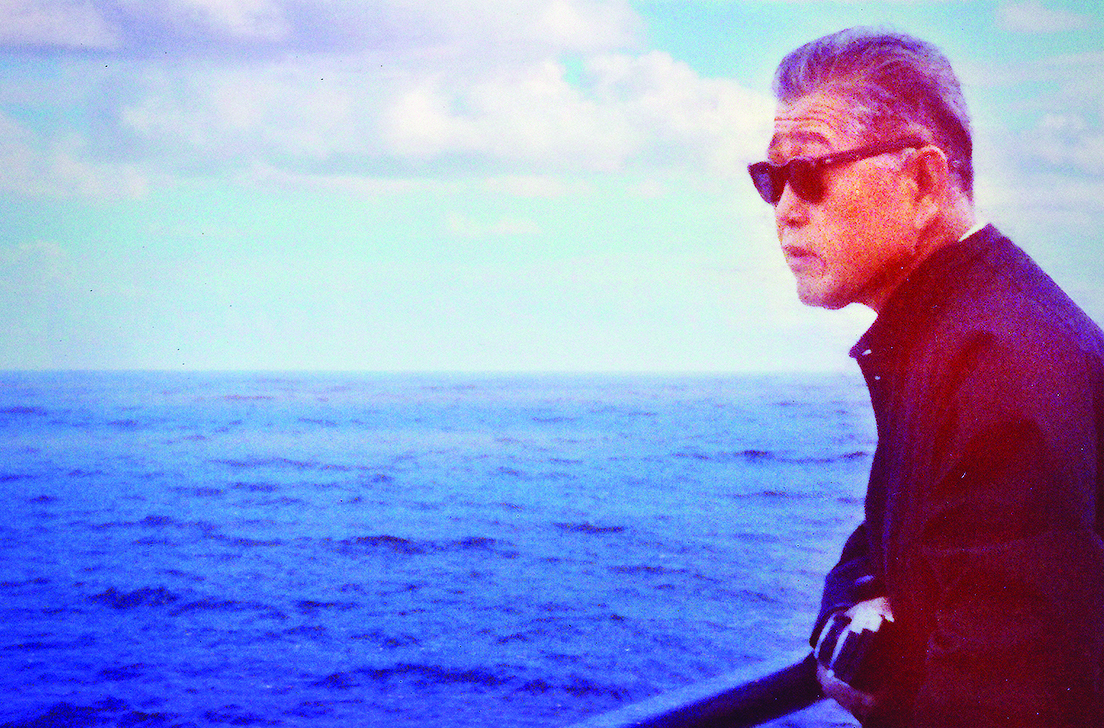
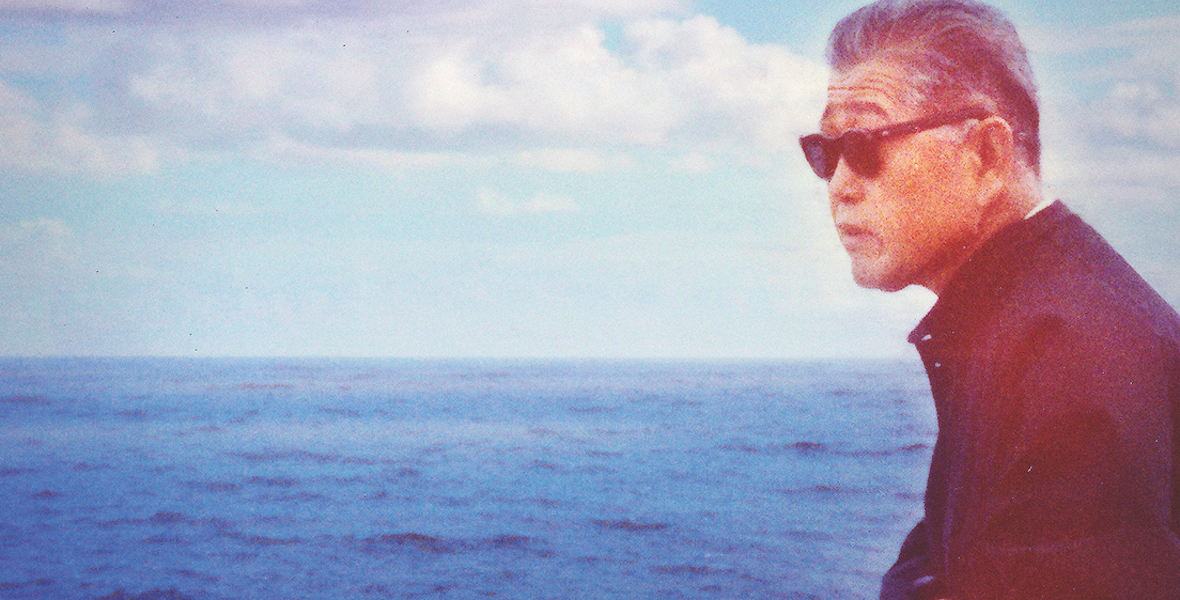
resized

diff --git a/MMFFWeb/index.html b/MMFFWeb/index.html
@@ -91,7 +91,7 @@
 
       <!-- Slide 1 : Active -->
       <div class="item active"  align="center">
-          <a href="95and6togo.html"><img src="Pics/95and6togo/95_And_6_To_Go_KEY_STILL_1.jpg" alt="95and6togo" ></a>
+          <a href="95and6togo.html"><img src="Pics/95and6togo/95-and-6-to-go.jpg" alt="95and6togo" ></a>
 
         <div style="background-color:rgba(0, 0, 0, 0.5); overflow:auto;" class="flex-center carousel-caption   animated fadeInUp" >
 
